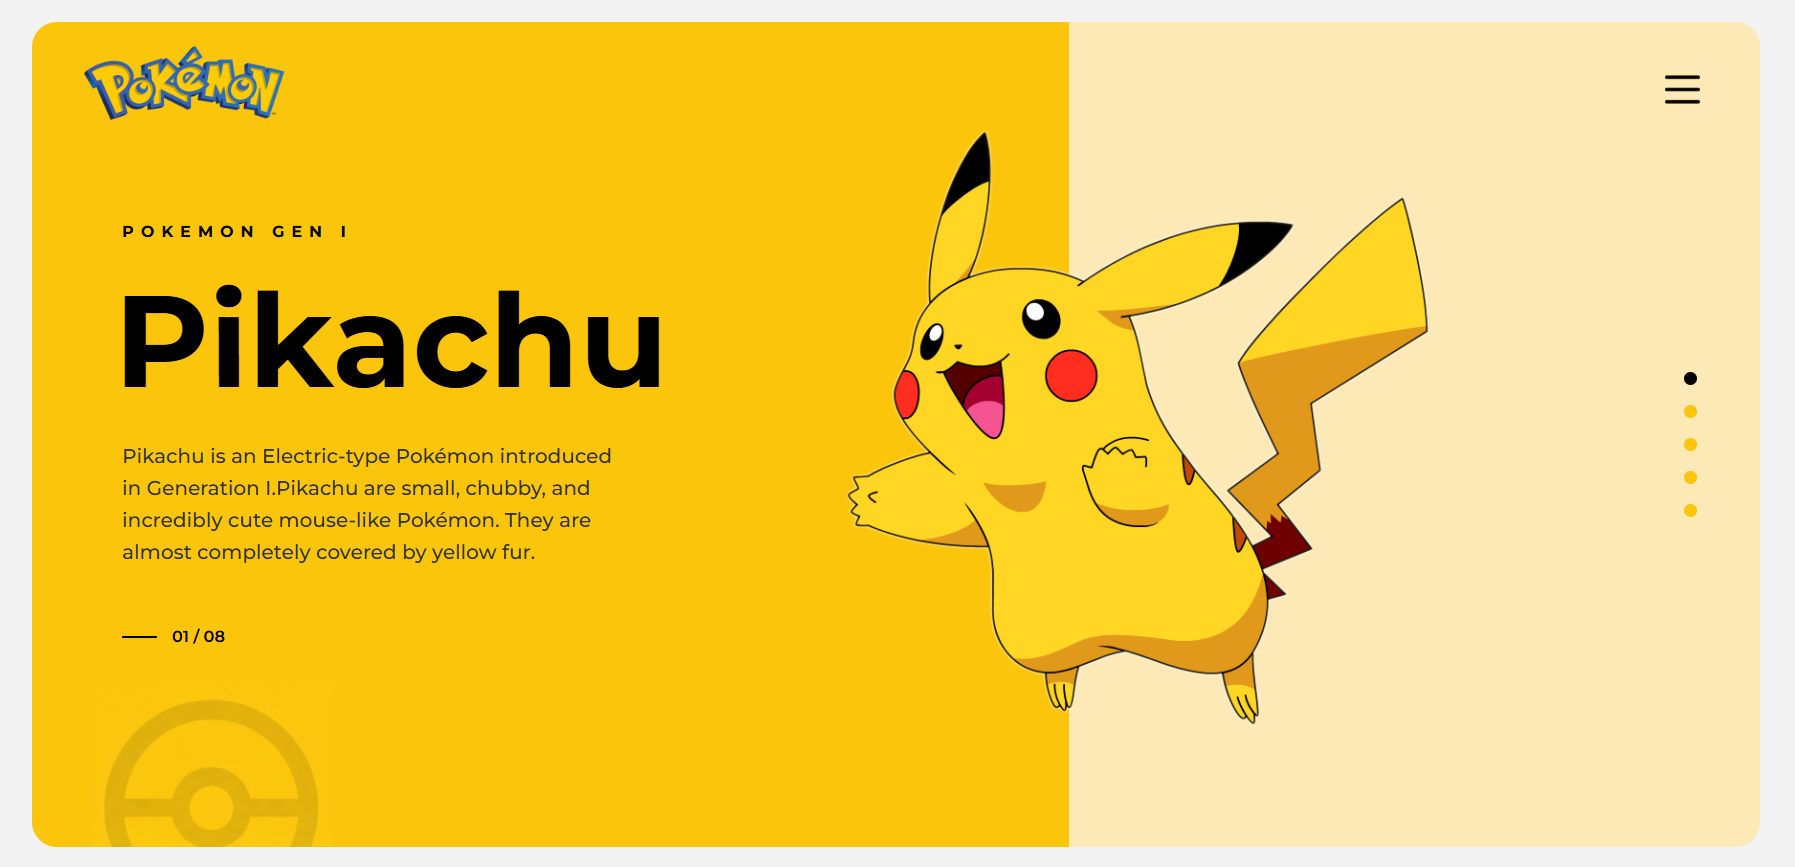
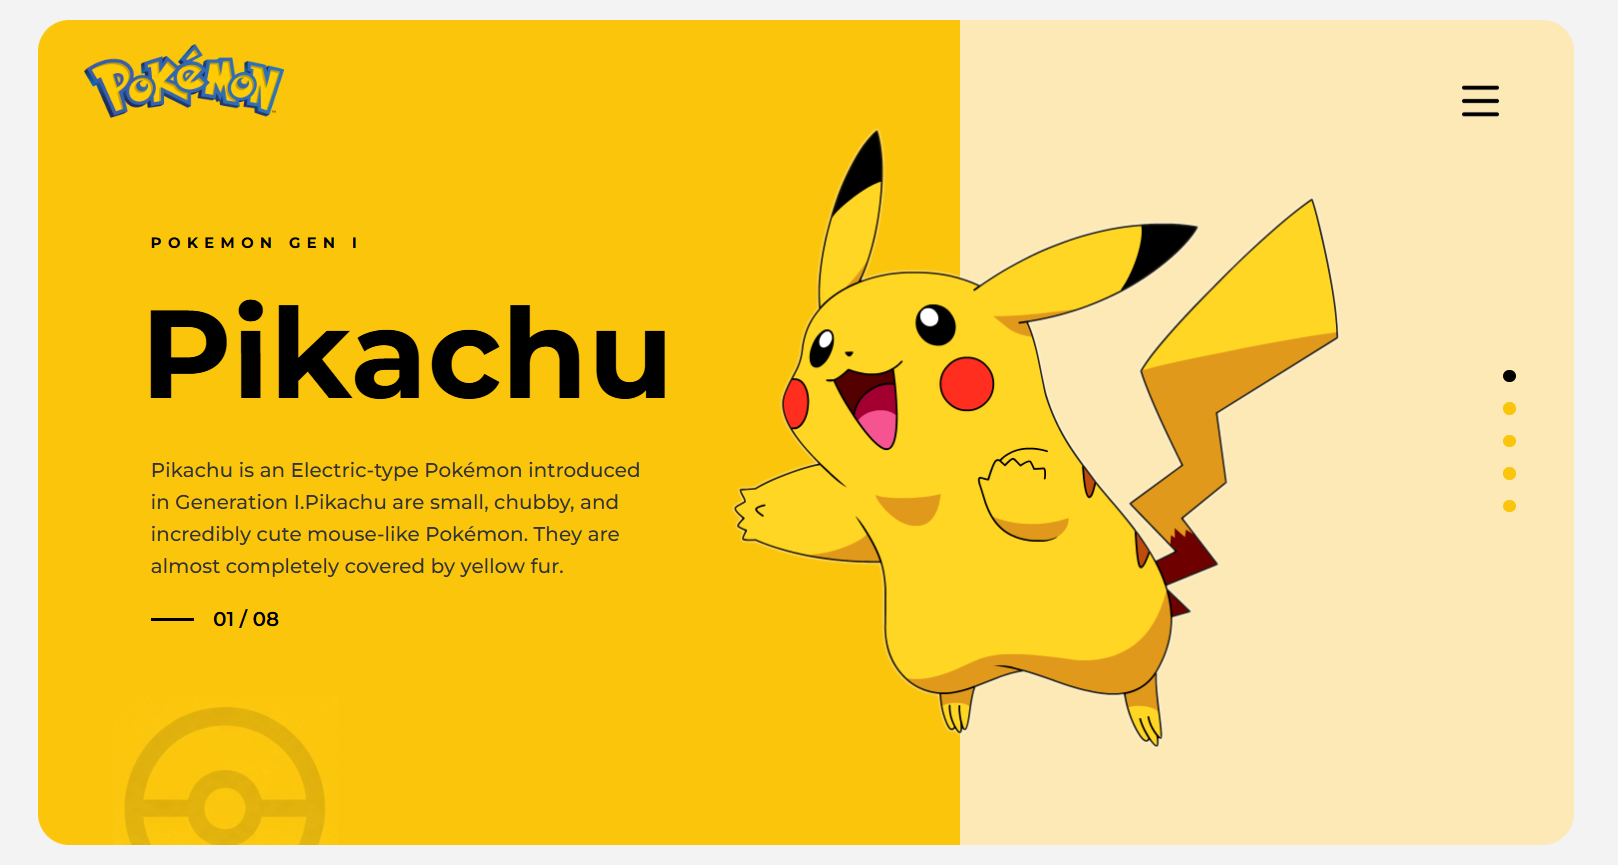
Updated

diff --git a/index.html b/index.html
@@ -50,20 +50,19 @@
             I.Pikachu are small, chubby, and incredibly cute mouse-like Pokémon.
             They are almost completely covered by yellow fur.
           </p>
-          <br />
           <div class="date">
             <div class="line"></div>
             <span> 01 / 08</span>
           </div>
         </section>
         <section class="right"></section>
-        <img class="logo" width="200" src="./logo.png" alt="logo" />
-        <img class="pickachu" width="600" src="./pickachu.png" alt="pickachu" />
-        <img class="menu" width="35" height="35" src="./menu.png" alt="menu" />
+        <img class="logo" width="160" src="./logo.png" alt="logo" />
+        <img class="pickachu" width="500" src="./pickachu.png" alt="pickachu" />
+        <img class="menu" width="30" height="30" src="./menu.png" alt="menu" />
         <img
           class="ball"
-          width="240"
-          height="160"
+          width="180"
+          height="120"
           src="./ball.png"
           alt="pokeball"
         />

diff --git a/style.css b/style.css
@@ -22,7 +22,7 @@ body {
 
 main {
   height: 95%;
-  width: 90%;
+  width: 80%;
   display: flex;
   position: relative;
 }
@@ -40,21 +40,21 @@ main {
 }
 
 .left h1 {
-  font-size: 16px;
-  letter-spacing: 7px;
+  font-size: 12px;
+  letter-spacing: 5px;
+  font-weight: 700;
 }
 
 .left h2 {
-  font-size: 130px;
+  font-size: 100px;
   margin-left: -8px;
   font-weight: 700;
 }
 
 .left p {
   line-height: 1.6;
-  font-size: 20px;
   font-weight: 500;
-  width: 500px;
+  width: 400px;
   color: #333;
 }
 
@@ -90,7 +90,7 @@ main {
 .pickachu {
   position: absolute;
   top: 13%;
-  right: 18.5%;
+  right: 14.5%;
 }
 
 .menu {
@@ -112,11 +112,11 @@ main {
 }
 
 .dot {
-  height: 13px;
-  width: 13px;
+  height: 10px;
+  width: 10px;
   background-color: #fbc50b;
   border-radius: 50%;
-  margin: 20px;
+  margin: 16px;
 }
 
 .dot1 {
